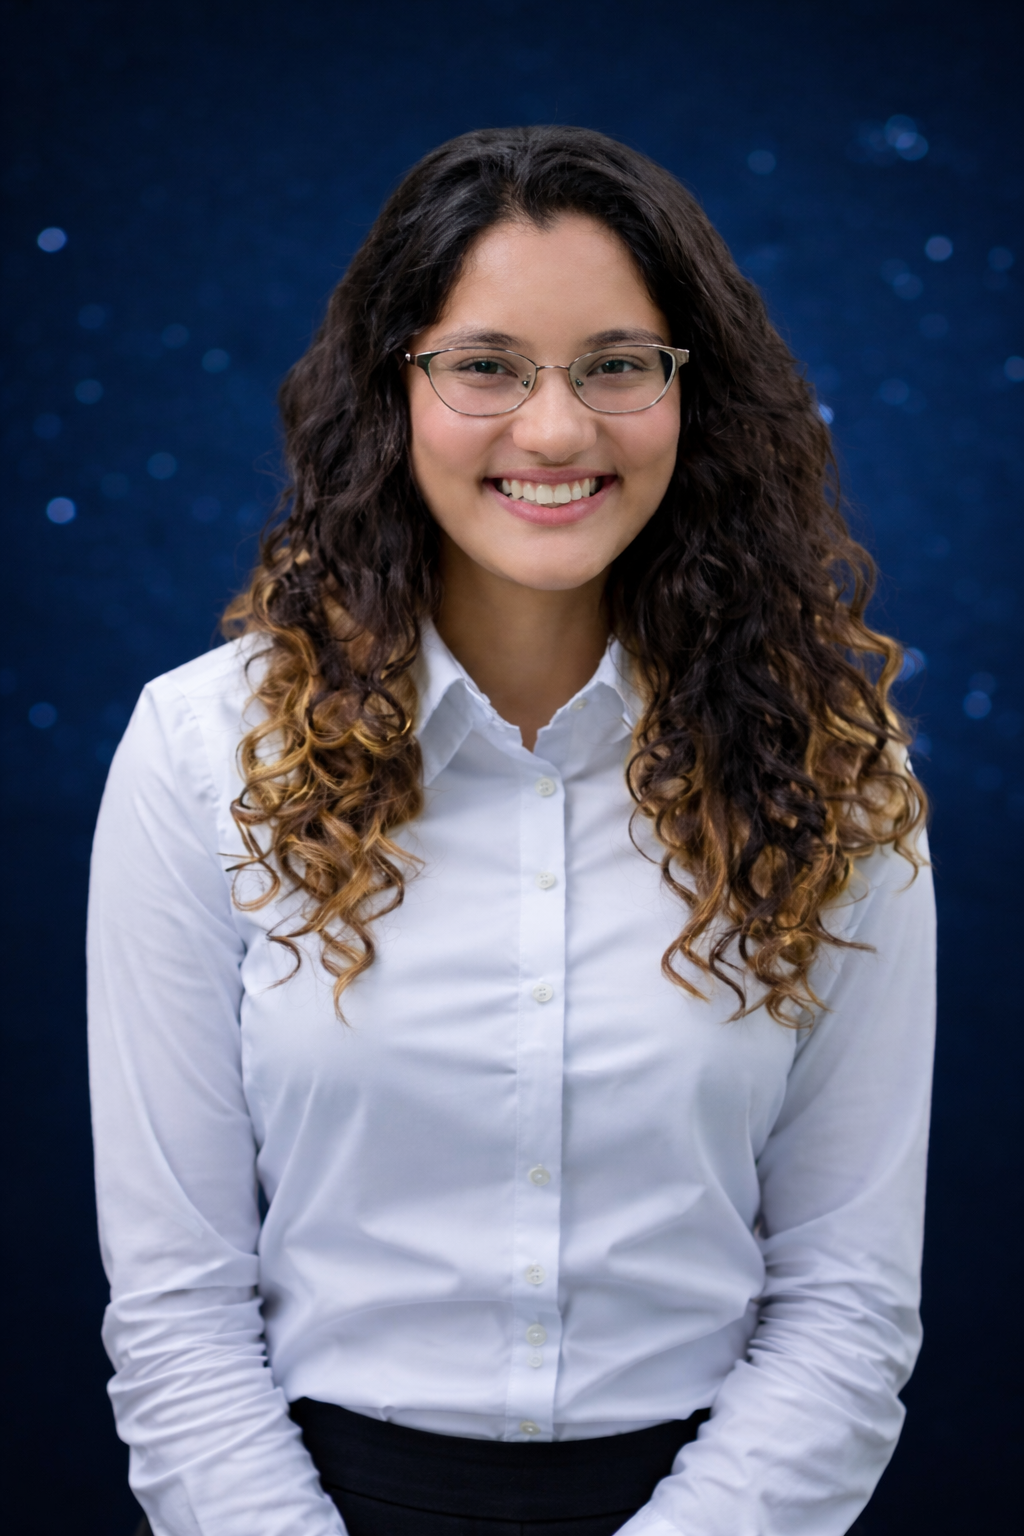
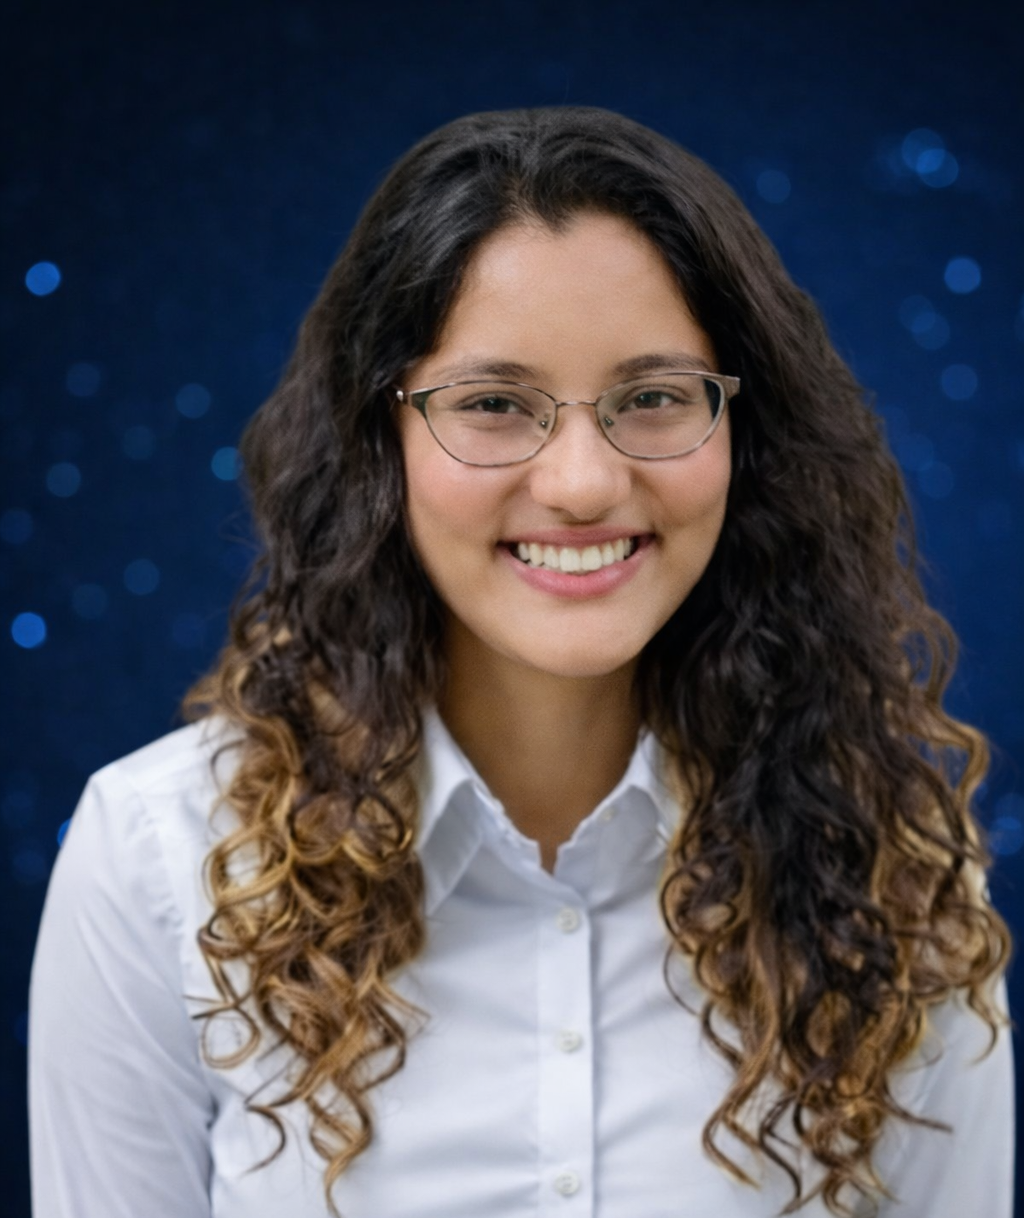
Changes

diff --git a/src/components/HeroSection.tsx b/src/components/HeroSection.tsx
@@ -303,7 +303,7 @@ const HeroSection = () => {
             <img
               src={profilePhoto}
               alt="Stuti Mohanty"
-              className="w-full h-full object-cover rounded-full relative z-10 shadow-2xl"
+              className="w-full h-full object-cover object-top rounded-full relative z-10 shadow-2xl"
               style={{
                 border: "2px solid hsla(217, 91%, 60%, 0.25)",
                 boxShadow: "0 0 40px hsla(217, 91%, 60%, 0.1), inset 0 0 30px hsla(220, 44%, 8%, 0.5)",
